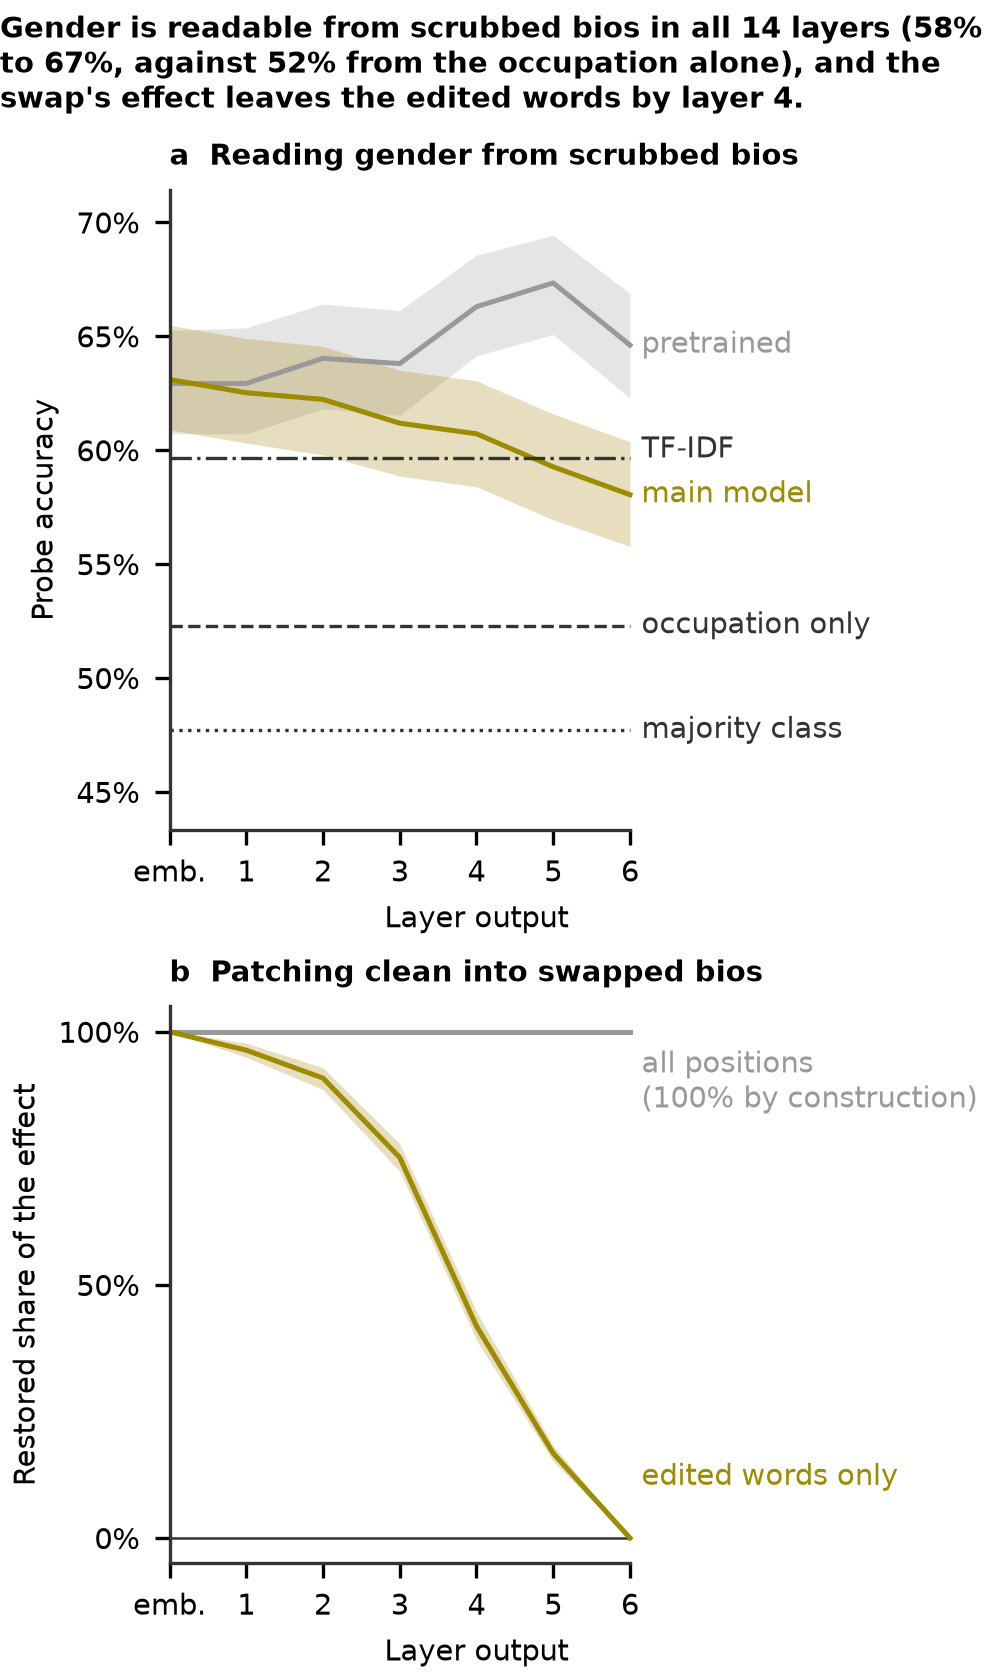
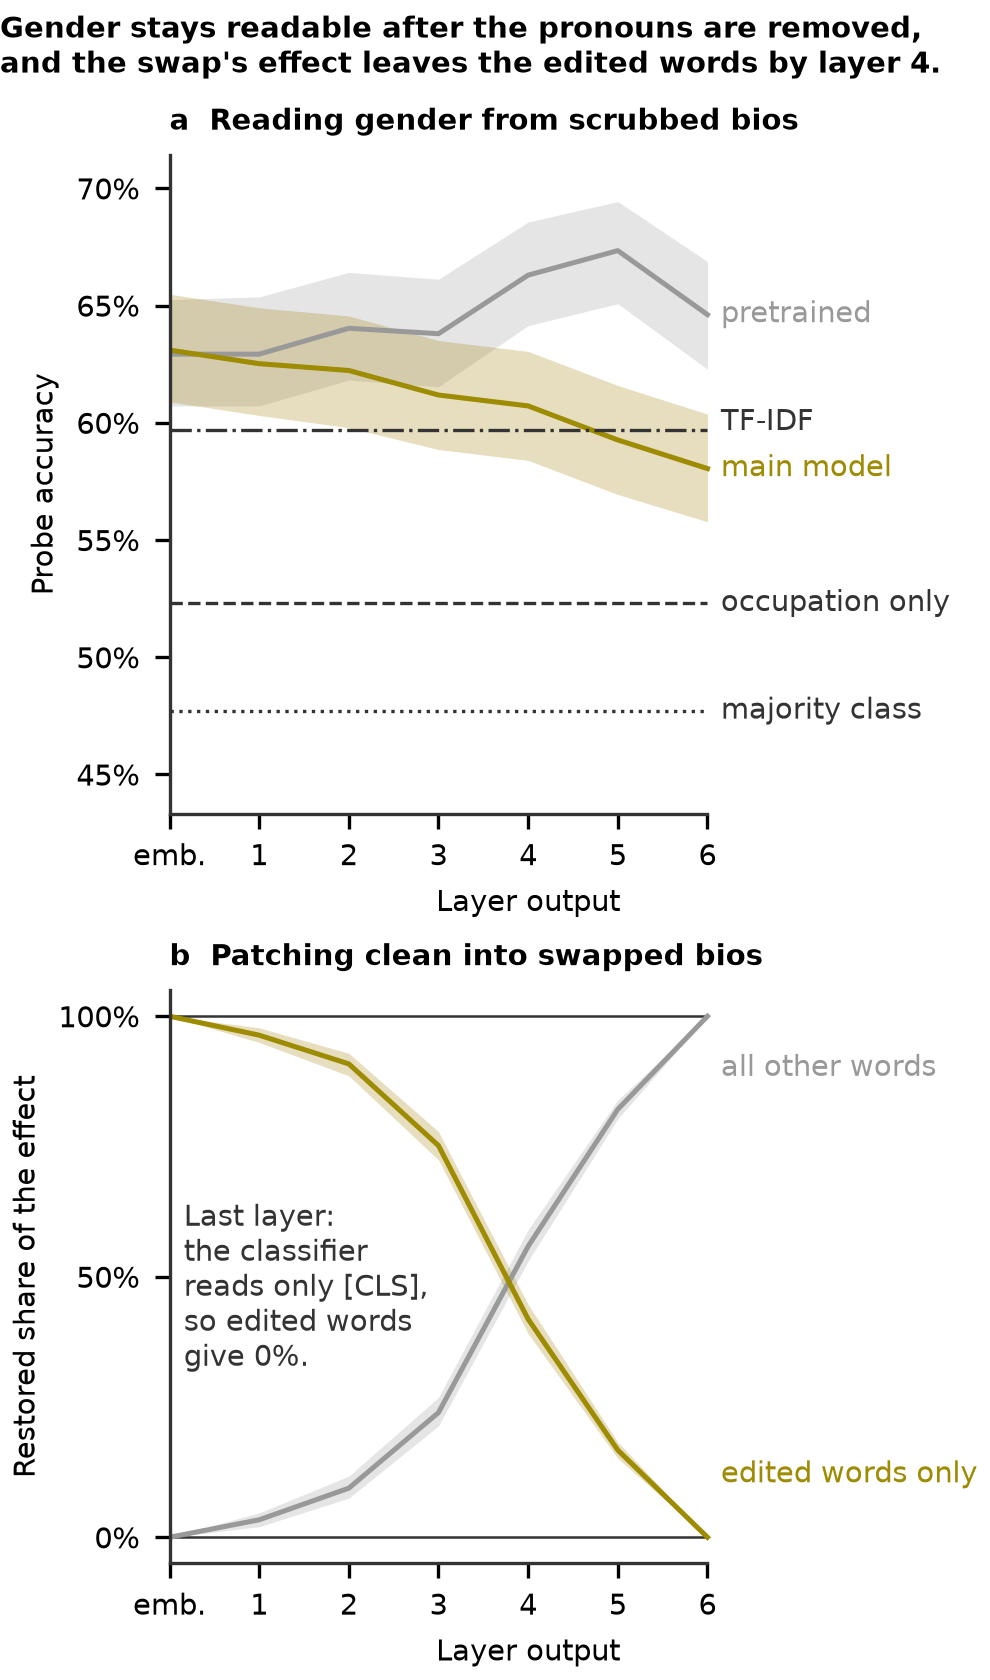
feat: F6 panel b plots the other words instead of all positions; shorter title; note on the last layer; patching rerun

diff --git a/scripts/figure_f6.py b/scripts/figure_f6.py
@@ -30,6 +30,7 @@ REFERENCES = (
 OCCUPATION_ONLY = "occupation_only"
 LABEL_GAP = 0.07  # least distance between the labels of panel a, as a share of its y range
 LABEL_ROOM = 2.0  # room right of the last layer for the labels, in layers
+LAST_LAYER_NOTE = "Last layer:\nthe classifier\nreads only [CLS],\nso edited words\ngive 0%."
 HALF = 0.5  # the share of the effect that marks where it has left the edited words
 
 
@@ -38,29 +39,30 @@ def _all_bios(probing: pd.DataFrame) -> pd.DataFrame:
 
 
 def title(probing: pd.DataFrame, patching: pd.DataFrame) -> str:
-    """The finding: in how many layers a probe reads gender beyond the occupation alone, and the
-    first layer where the effect of the swap has left the edited words.
+    """The finding: whether a probe reads gender beyond the occupation alone once the pronouns
+    are removed, and the first layer where the effect of the swap has left the edited words.
 
-    A probe counts when its interval starts above the interval of the occupation-only reference.
-    The effect has left the edited words when the interval of the restored share is below one
-    half.
+    A probe counts when its interval starts above the interval of the occupation-only reference;
+    the title says "stays readable" if all do, "in only some layers" if some do. The effect has
+    left the edited words when the interval of the restored share is below one half.
     """
     rows = _all_bios(probing)
     probes = rows[rows["model"].isin([name for name, _, _ in MODELS])]
     reference = rows[rows["model"] == OCCUPATION_ONLY].iloc[0]
     above = int((probes["ci_low"] > reference["ci_high"]).sum())
-    count = f"all {len(probes)}" if above == len(probes) else f"{above} of {len(probes)}"
+    if above == len(probes):
+        readable = "Gender stays readable after the pronouns are removed"
+    elif above:
+        readable = "Gender stays readable in only some layers after the pronouns are removed"
+    else:
+        readable = "Gender is not readable beyond the occupation once the pronouns are removed"
     differing = patching[patching["position_set"] == "differing"].sort_values("layer")
     left = differing[differing["mean_ci_high"] < HALF]
     if left.empty:
         where = "stays in the edited words in every layer"
     else:
         where = f"leaves the edited words by layer {left['layer'].iloc[0]}"
-    return (
-        f"Gender is readable from scrubbed bios in {count} layers "
-        f"({probes['accuracy'].min():.0%} to {probes['accuracy'].max():.0%}, against "
-        f"{reference['accuracy']:.0%} from the occupation alone), and the swap's effect {where}."
-    )
+    return f"{readable}, and the swap's effect {where}."
 
 
 def _spread(positions: list[float], gap: float) -> list[float]:
@@ -113,7 +115,7 @@ def _patch_panel(ax, patching: pd.DataFrame) -> None:
     for value, name in ((0, "zero"), (1, "one")):
         ax.plot([layers[0], layers[-1]], [value, value], color=DARK, lw=0.6, label=name)
     for position_set, colour, label in (
-        ("all", NEUTRAL, "all positions\n(100% by construction)"),
+        ("others", NEUTRAL, "all other words"),
         ("differing", HIGHLIGHT, "edited words only"),
     ):
         rows = patching[patching["position_set"] == position_set].sort_values("layer")
@@ -121,8 +123,9 @@ def _patch_panel(ax, patching: pd.DataFrame) -> None:
             rows["layer"], rows["mean_ci_low"], rows["mean_ci_high"], color=colour, alpha=0.25, lw=0
         )
         ax.plot(rows["layer"], rows["mean"], color=colour, lw=1.2, label=position_set)
-        y = rows["mean"].iloc[-1] + (-0.1 if position_set == "all" else 0.12)
+        y = rows["mean"].iloc[-1] + (-0.1 if position_set == "others" else 0.12)
         ax.text(layers[-1] + 0.15, y, label, color=colour, va="center", ha="left")
+    ax.text(0.02, 0.48, LAST_LAYER_NOTE, transform=ax.transAxes, color=DARK, va="center", ha="left")
     _set_layers(ax, layers)
     ax.set_yticks([0, 0.5, 1])
     ax.yaxis.set_major_formatter(lambda value, _: f"{value:.0%}")

diff --git a/scripts/patching.py b/scripts/patching.py
@@ -6,8 +6,8 @@ under the removal control (`data.scrub`) over all bios, and whose two token sequ
 same length. For each layer output, the clean states are patched into the corrupted run at the
 positions where the tokens differ and at all the other positions (`patching.patch_pairs`); the
 restored share of the true-class log-odds is summarised in `results/patching.csv` and the counts
-in `results/patching.json`. Patching all positions is a check, not a row: it must give share 1. Forward passes only; needs the saved main model and the GPU, with
-nothing else running.
+in `results/patching.json`. Patching all positions is a check, not a row: it must give share 1.
+Forward passes only; needs the saved main model and the GPU, with nothing else running.
 """
 
 import time
